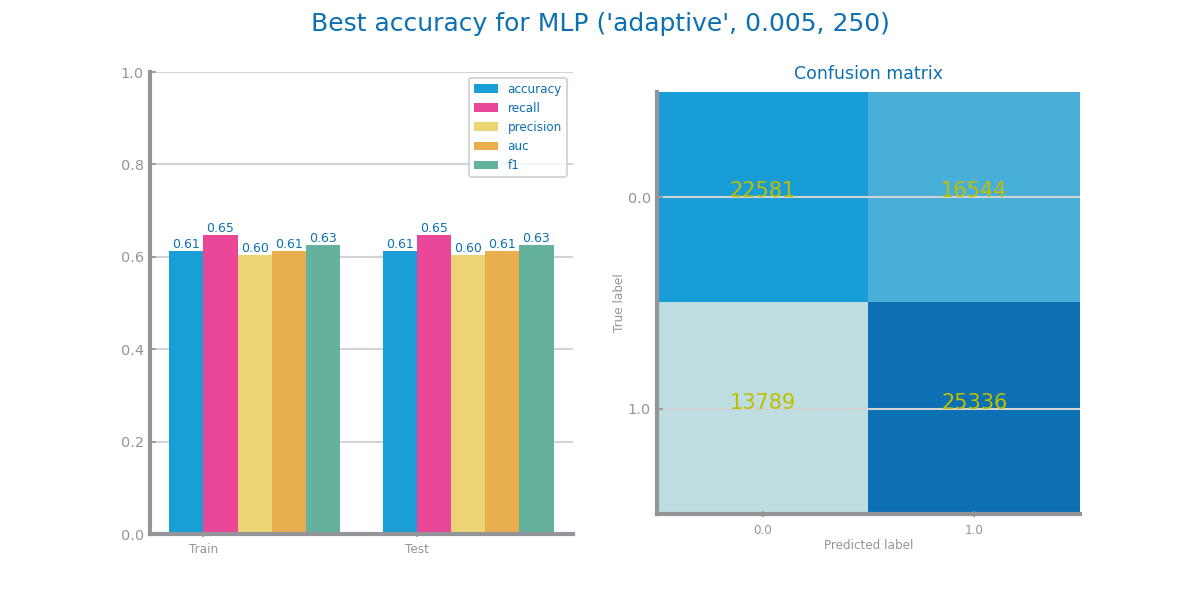
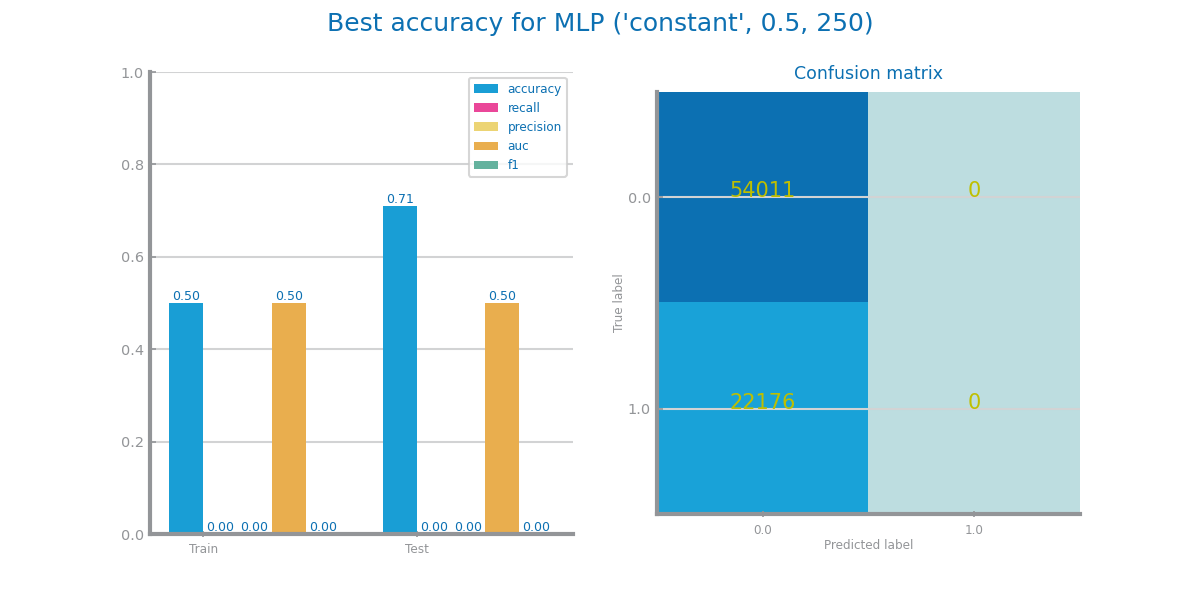
modelling after feature selection

diff --git a/dataset_health/modeling/MLP.py b/dataset_health/modeling/MLP.py
@@ -15,12 +15,82 @@ from dslabs_functions import (
     DELTA_IMPROVE,
     read_train_test_from_files,
 )
-from dslabs_functions import HEIGHT, plot_evaluation_results, plot_multiline_chart, mlp_study
+from dslabs_functions import HEIGHT, plot_evaluation_results, plot_multiline_chart
+
+def mlp_study(
+    trnX: ndarray,
+    trnY: array,
+    tstX: ndarray,
+    tstY: array,
+    nr_max_iterations: int = 2500,
+    lag: int = 500,
+    metric: str = "accuracy",
+) -> tuple[MLPClassifier | None, dict]:
+    nr_iterations: list[int] = [lag] + [
+        i for i in range(2 * lag, nr_max_iterations + 1, lag)
+    ]
+
+    lr_types: list[Literal["constant", "invscaling", "adaptive"]] = [
+        "constant",
+        "invscaling",
+        "adaptive",
+    ]  # only used if optimizer='sgd'
+    learning_rates: list[float] = [0.5, 0.05, 0.005, 0.0005]
+
+    best_model: MLPClassifier | None = None
+    best_params: dict = {"name": "MLP", "metric": metric, "params": ()}
+    best_performance: float = 0.0
+
+    values: dict = {}
+    _, axs = subplots(
+        1, len(lr_types), figsize=(len(lr_types) * HEIGHT, HEIGHT), squeeze=False
+    )
+    for i in range(len(lr_types)):
+        type: str = lr_types[i]
+        values = {}
+        for lr in learning_rates:
+            warm_start: bool = False
+            y_tst_values: list[float] = []
+            for j in range(len(nr_iterations)):
+                clf = MLPClassifier(
+                    learning_rate=type,
+                    learning_rate_init=lr,
+                    max_iter=lag,
+                    warm_start=warm_start,
+                    activation="logistic",
+                    solver="sgd",
+                    verbose=False,
+                )
+                clf.fit(trnX, trnY)
+                prdY: array = clf.predict(tstX)
+                eval: float = CLASS_EVAL_METRICS[metric](tstY, prdY)
+                y_tst_values.append(eval)
+                warm_start = True
+                if eval - best_performance > DELTA_IMPROVE:
+                    best_performance = eval
+                    best_params["params"] = (type, lr, nr_iterations[j])
+                    best_model = clf
+                # print(f'MLP lr_type={type} lr={lr} n={nr_iterations[j]}')
+            values[lr] = y_tst_values
+        plot_multiline_chart(
+            nr_iterations,
+            values,
+            ax=axs[0, i],
+            title=f"MLP with {type}",
+            xlabel="nr iterations",
+            ylabel=metric,
+            percentage=True,
+        )
+    print(
+        f'MLP best for {best_params["params"][2]} iterations (lr_type={best_params["params"][0]} and lr={best_params["params"][1]}'
+    )
+
+    return best_model, best_params
 
 file_tag = "covid"
 file_dir = "dataset_health/modeling/MLP_images/"
-train_filename = "dataset_health/data/covid_under.csv"
-test_filename = "dataset_health/data/test.csv"
+train_filename = "dataset_health/data/covid_train_redundant.csv"
+test_filename = "dataset_health/data/covid_test_redundant.csv"
 target = "CovidPos"
 eval_metric = "accuracy" 
 

diff --git a/dataset_health/modeling/GB.py b/dataset_health/modeling/GB.py
@@ -10,15 +10,70 @@ from dslabs_functions import (
     DELTA_IMPROVE,
     read_train_test_from_files,
 )
-from dslabs_functions import HEIGHT, plot_evaluation_results, plot_multiline_chart, gradient_boosting_study
+from dslabs_functions import HEIGHT, plot_evaluation_results, plot_multiline_chart
 from numpy import std, argsort
 from dslabs_functions import plot_horizontal_bar_chart
     
 
+def gradient_boosting_study(
+    trnX: ndarray,
+    trnY: array,
+    tstX: ndarray,
+    tstY: array,
+    nr_max_trees: int = 2500,
+    lag: int = 500,
+    metric: str = "accuracy",
+) -> tuple[GradientBoostingClassifier | None, dict]:
+    n_estimators: list[int] = [100] + [i for i in range(500, nr_max_trees + 1, lag)]
+    max_depths: list[int] = [2, 5, 7]
+    learning_rates: list[float] = [0.1, 0.3, 0.5, 0.7, 0.9]
+
+    best_model: GradientBoostingClassifier | None = None
+    best_params: dict = {"name": "GB", "metric": metric, "params": ()}
+    best_performance: float = 0.0
+
+    values: dict = {}
+    cols: int = len(max_depths)
+    _, axs = subplots(1, cols, figsize=(cols * HEIGHT, HEIGHT), squeeze=False)
+    for i in range(len(max_depths)):
+        d: int = max_depths[i]
+        values = {}
+        for lr in learning_rates:
+            y_tst_values: list[float] = []
+            for n in n_estimators:
+                clf = GradientBoostingClassifier(
+                    n_estimators=n, max_depth=d, learning_rate=lr
+                )
+                clf.fit(trnX, trnY)
+                prdY: array = clf.predict(tstX)
+                eval: float = CLASS_EVAL_METRICS[metric](tstY, prdY)
+                y_tst_values.append(eval)
+                if eval - best_performance > DELTA_IMPROVE:
+                    best_performance = eval
+                    best_params["params"] = (d, lr, n)
+                    best_model = clf
+                # print(f'GB d={d} lr={lr} n={n}')
+            values[lr] = y_tst_values
+        plot_multiline_chart(
+            n_estimators,
+            values,
+            ax=axs[0, i],
+            title=f"Gradient Boosting with max_depth={d}",
+            xlabel="nr estimators",
+            ylabel=metric,
+            percentage=True,
+        )
+    print(
+        f'GB best for {best_params["params"][2]} trees (d={best_params["params"][0]} and lr={best_params["params"][1]}'
+    )
+
+    return best_model, best_params
+
+
 file_tag = "covid"
 file_dir = "dataset_health/modeling/GB_images/"
-train_filename = "dataset_health/data/covid_under.csv"
-test_filename = "dataset_health/data/test.csv"
+train_filename = "dataset_health/data/covid_train_redundant.csv"
+test_filename = "dataset_health/data/covid_test_redundant.csv"
 target = "CovidPos"
 eval_metric = "accuracy" 
 

diff --git a/dataset_health/modeling/RF.py b/dataset_health/modeling/RF.py
@@ -13,12 +13,66 @@ from dslabs_functions import (
     DELTA_IMPROVE,
     read_train_test_from_files,
 )
-from dslabs_functions import HEIGHT, plot_evaluation_results, plot_multiline_chart, random_forests_study
+from dslabs_functions import HEIGHT, plot_evaluation_results, plot_multiline_chart
+
+def random_forests_study(
+    trnX: ndarray,
+    trnY: array,
+    tstX: ndarray,
+    tstY: array,
+    nr_max_trees: int = 2500,
+    lag: int = 500,
+    metric: str = "accuracy",
+) -> tuple[RandomForestClassifier | None, dict]:
+    n_estimators: list[int] = [100] + [i for i in range(500, nr_max_trees + 1, lag)]
+    max_depths: list[int] = [2, 5, 7]
+    max_features: list[float] = [0.1, 0.3, 0.5, 0.7, 0.9]
+
+    best_model: RandomForestClassifier | None = None
+    best_params: dict = {"name": "RF", "metric": metric, "params": ()}
+    best_performance: float = 0.0
+
+    values: dict = {}
+
+    cols: int = len(max_depths)
+    _, axs = subplots(1, cols, figsize=(cols * HEIGHT, HEIGHT), squeeze=False)
+    for i in range(len(max_depths)):
+        d: int = max_depths[i]
+        values = {}
+        for f in max_features:
+            y_tst_values: list[float] = []
+            for n in n_estimators:
+                clf = RandomForestClassifier(
+                    n_estimators=n, max_depth=d, max_features=f
+                )
+                clf.fit(trnX, trnY)
+                prdY: array = clf.predict(tstX)
+                eval: float = CLASS_EVAL_METRICS[metric](tstY, prdY)
+                y_tst_values.append(eval)
+                if eval - best_performance > DELTA_IMPROVE:
+                    best_performance = eval
+                    best_params["params"] = (d, f, n)
+                    best_model = clf
+                # print(f'RF d={d} f={f} n={n}')
+            values[f] = y_tst_values
+        plot_multiline_chart(
+            n_estimators,
+            values,
+            ax=axs[0, i],
+            title=f"Random Forests with max_depth={d}",
+            xlabel="nr estimators",
+            ylabel=metric,
+            percentage=True,
+        )
+    print(
+        f'RF best for {best_params["params"][2]} trees (d={best_params["params"][0]} and f={best_params["params"][1]})'
+    )
+    return best_model, best_params
 
 file_tag = "covid"
 file_dir = "dataset_health/modeling/RF_images/"
-train_filename = "dataset_health/data/covid_under.csv"
-test_filename = "dataset_health/data/test.csv"
+train_filename = "dataset_health/data/covid_train_redundant.csv"
+test_filename = "dataset_health/data/covid_test_redundant.csv"
 target = "CovidPos"
 eval_metric = "accuracy" 
 

diff --git a/dataset_health/modeling/KNN.py b/dataset_health/modeling/KNN.py
@@ -4,10 +4,10 @@ from sklearn.naive_bayes import GaussianNB, MultinomialNB, BernoulliNB
 from matplotlib.pyplot import figure, savefig, show
 
 file_tag = "covid"
-train_filename = "dataset_health/data/covid_under.csv"
-test_filename = "dataset_health/data/test.csv"
+train_filename = "dataset_health/data/covid_train_redundant.csv"
+test_filename = "dataset_health/data/covid_test_redundant.csv"
 target = "CovidPos"
-eval_metric = "precision"
+eval_metric = "accuracy"
 
 
 trnX, tstX, trnY, tstY, labels, vars = read_train_test_from_files(
@@ -16,7 +16,7 @@ trnX, tstX, trnY, tstY, labels, vars = read_train_test_from_files(
 
 
 figure()
-best_model, params = knn_study(trnX, trnY, tstX, tstY, k_max=7, metric=eval_metric)
+best_model, params = knn_study(trnX, trnY, tstX, tstY, k_max=50, metric=eval_metric)
 savefig(f'dataset_health/modeling/KNN_images/{file_tag}_knn_{eval_metric}_study.png')
 show()
 

diff --git a/dataset_health/modeling/NB.py b/dataset_health/modeling/NB.py
@@ -4,8 +4,8 @@ from sklearn.naive_bayes import GaussianNB, MultinomialNB, BernoulliNB
 from matplotlib.pyplot import figure, savefig, show
 
 file_tag = "covid"
-train_filename = "dataset_health/data/covid_under.csv"
-test_filename = "dataset_health/data/test.csv"
+train_filename = "dataset_health/data/covid_train_redundant.csv"
+test_filename = "dataset_health/data/covid_test_redundant.csv"
 target = "CovidPos"
 eval_metric = "accuracy"
 
@@ -22,10 +22,6 @@ savefig(f"dataset_health/modeling/NB_images/{file_tag}_nb_{eval_metric}_study.pn
 
 
 
-figure(figsize=(4,5))
-best_model, params = naive_Bayes_study(trnX, trnY, tstX, tstY, "f1")
-savefig(f"dataset_health/modeling/NB_images/{file_tag}_nb_recall_study.png")
-show()
 
 
 

diff --git a/dataset_health/modeling/DecisionTress.py b/dataset_health/modeling/DecisionTress.py
@@ -7,10 +7,10 @@ from config.dslabs_functions import plot_evaluation_results, plot_multiline_char
 from numpy import argsort
 from config.dslabs_functions import plot_horizontal_bar_chart
 file_tag = "covid"
-train_filename = "dataset_health/data/covid_under.csv"
-test_filename = "dataset_health/data/test.csv"
+train_filename = "dataset_health/data/covid_train_redundant.csv"
+test_filename = "dataset_health/data/covid_test_redundant.csv"
 target = "CovidPos"
-eval_metric = "f1"
+eval_metric = "accuracy"
 
 
 trnX, tstX, trnY, tstY, labels, vars = read_train_test_from_files(
